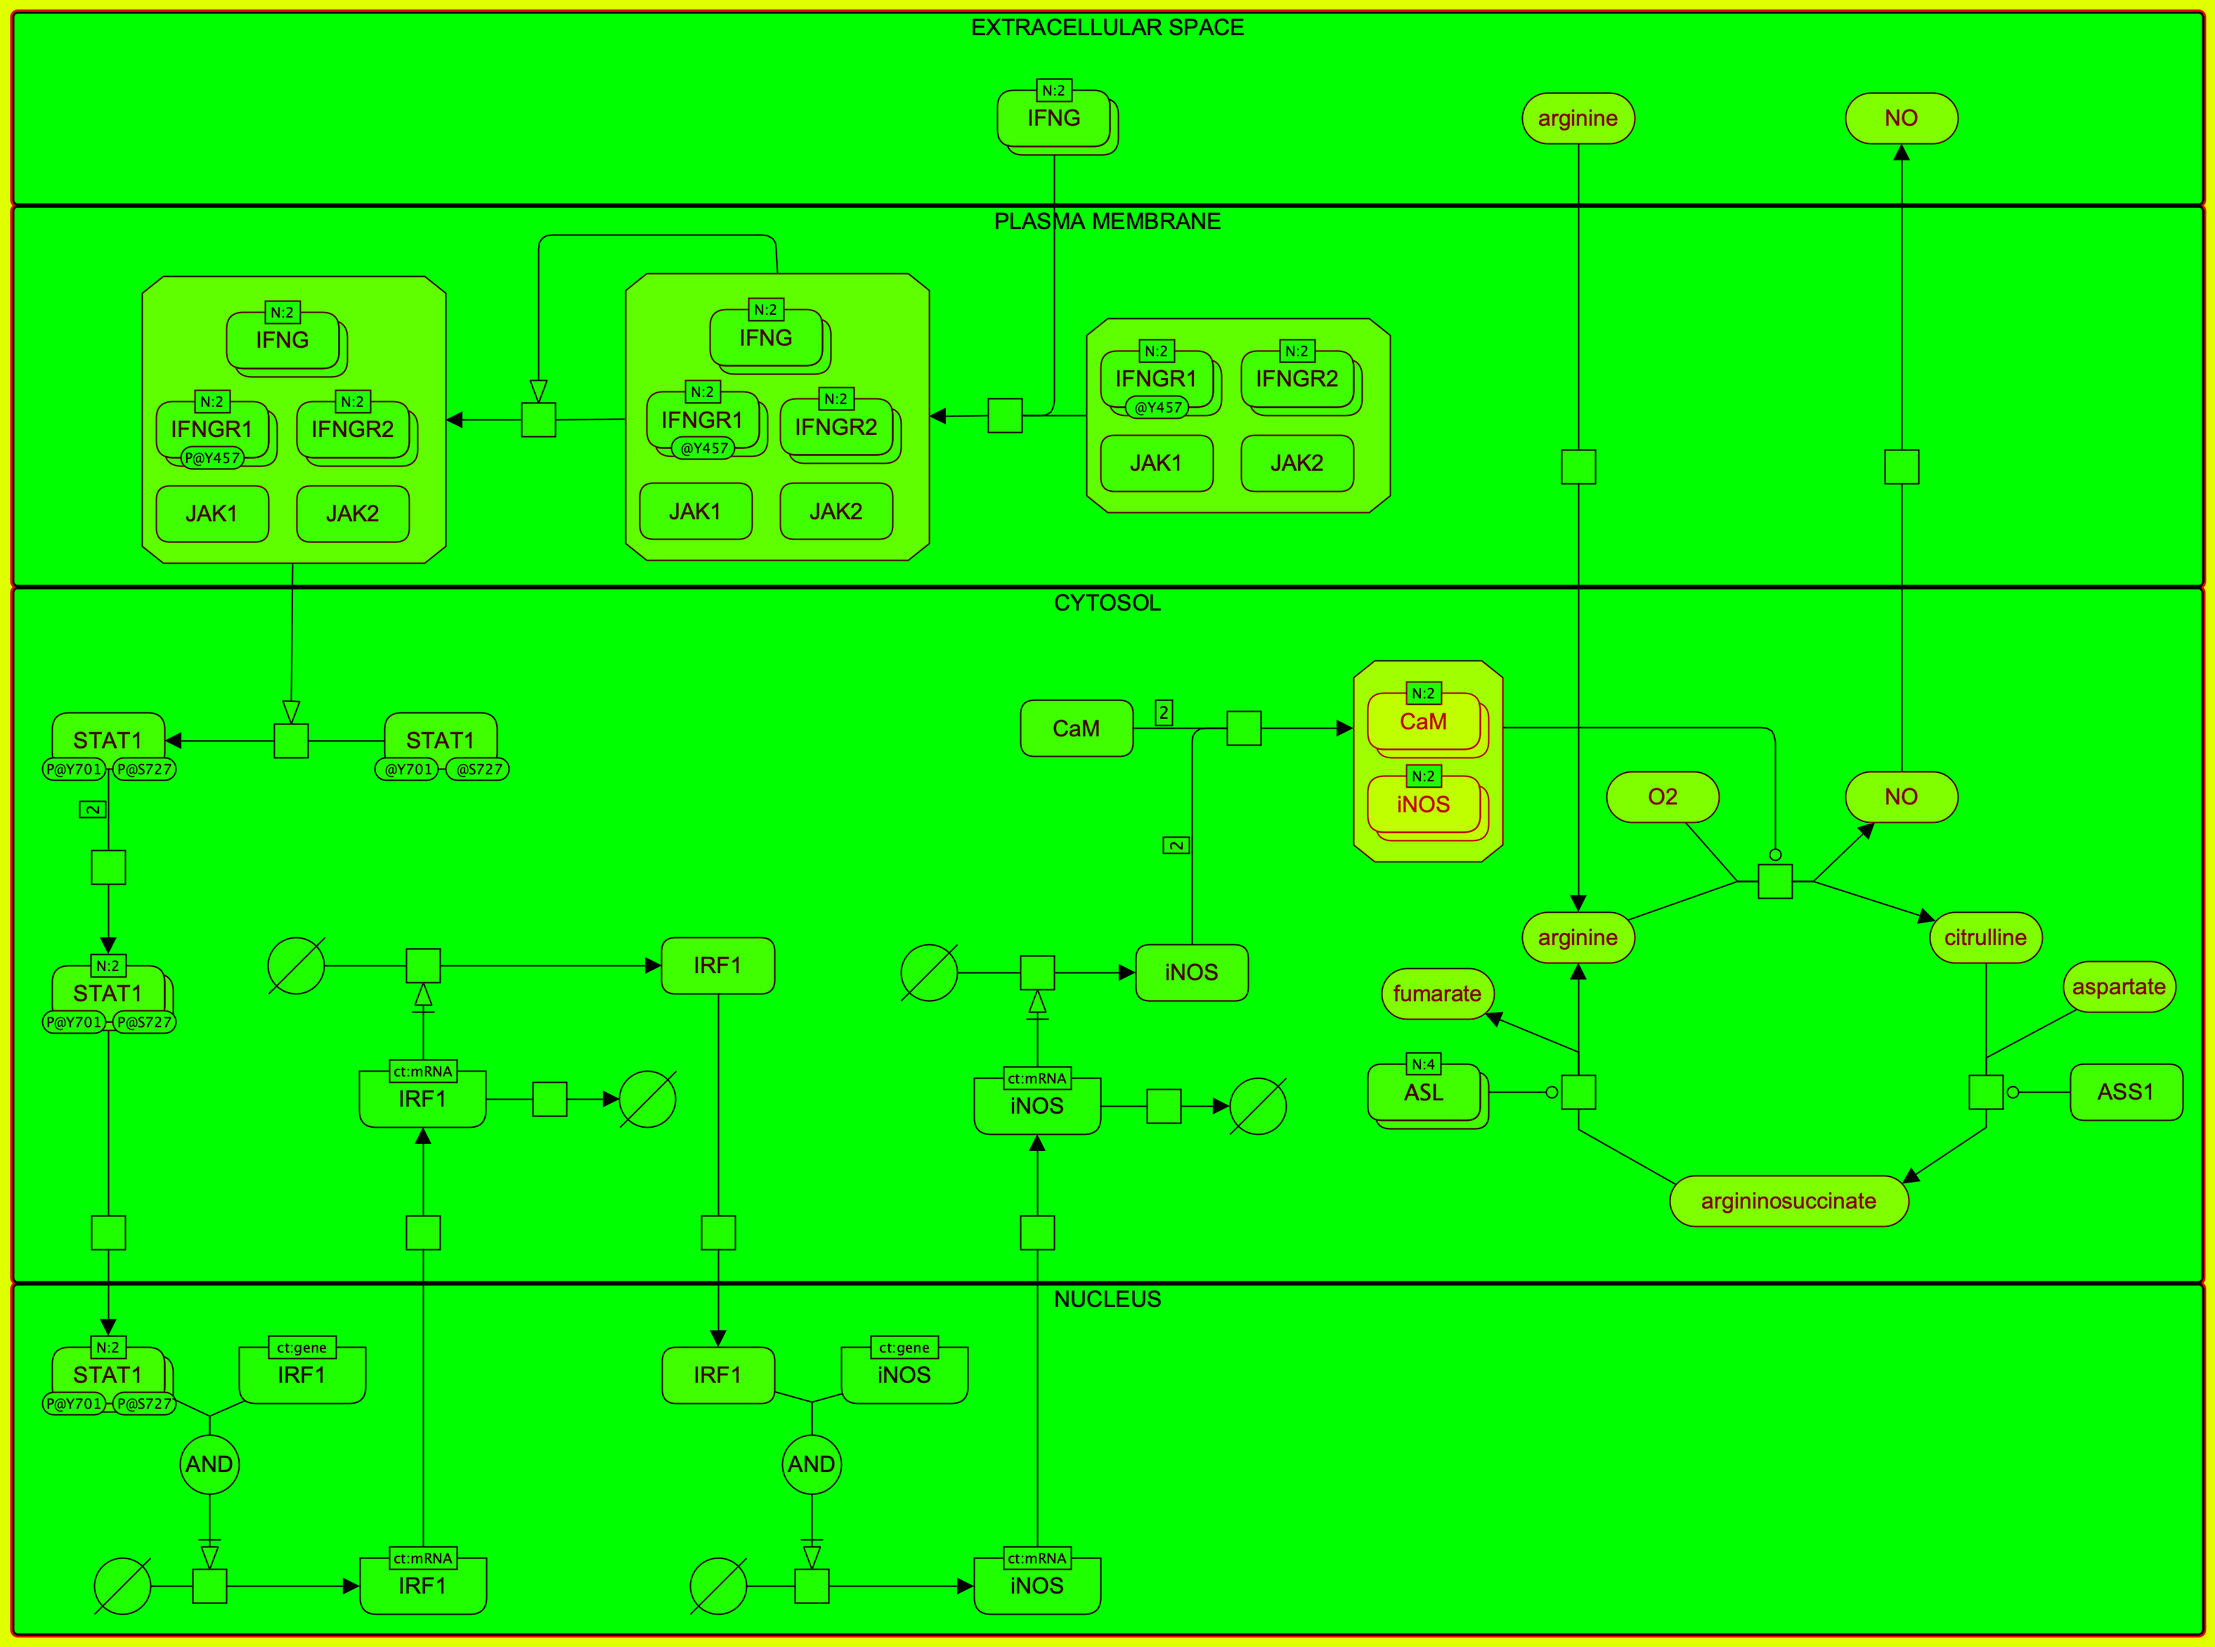
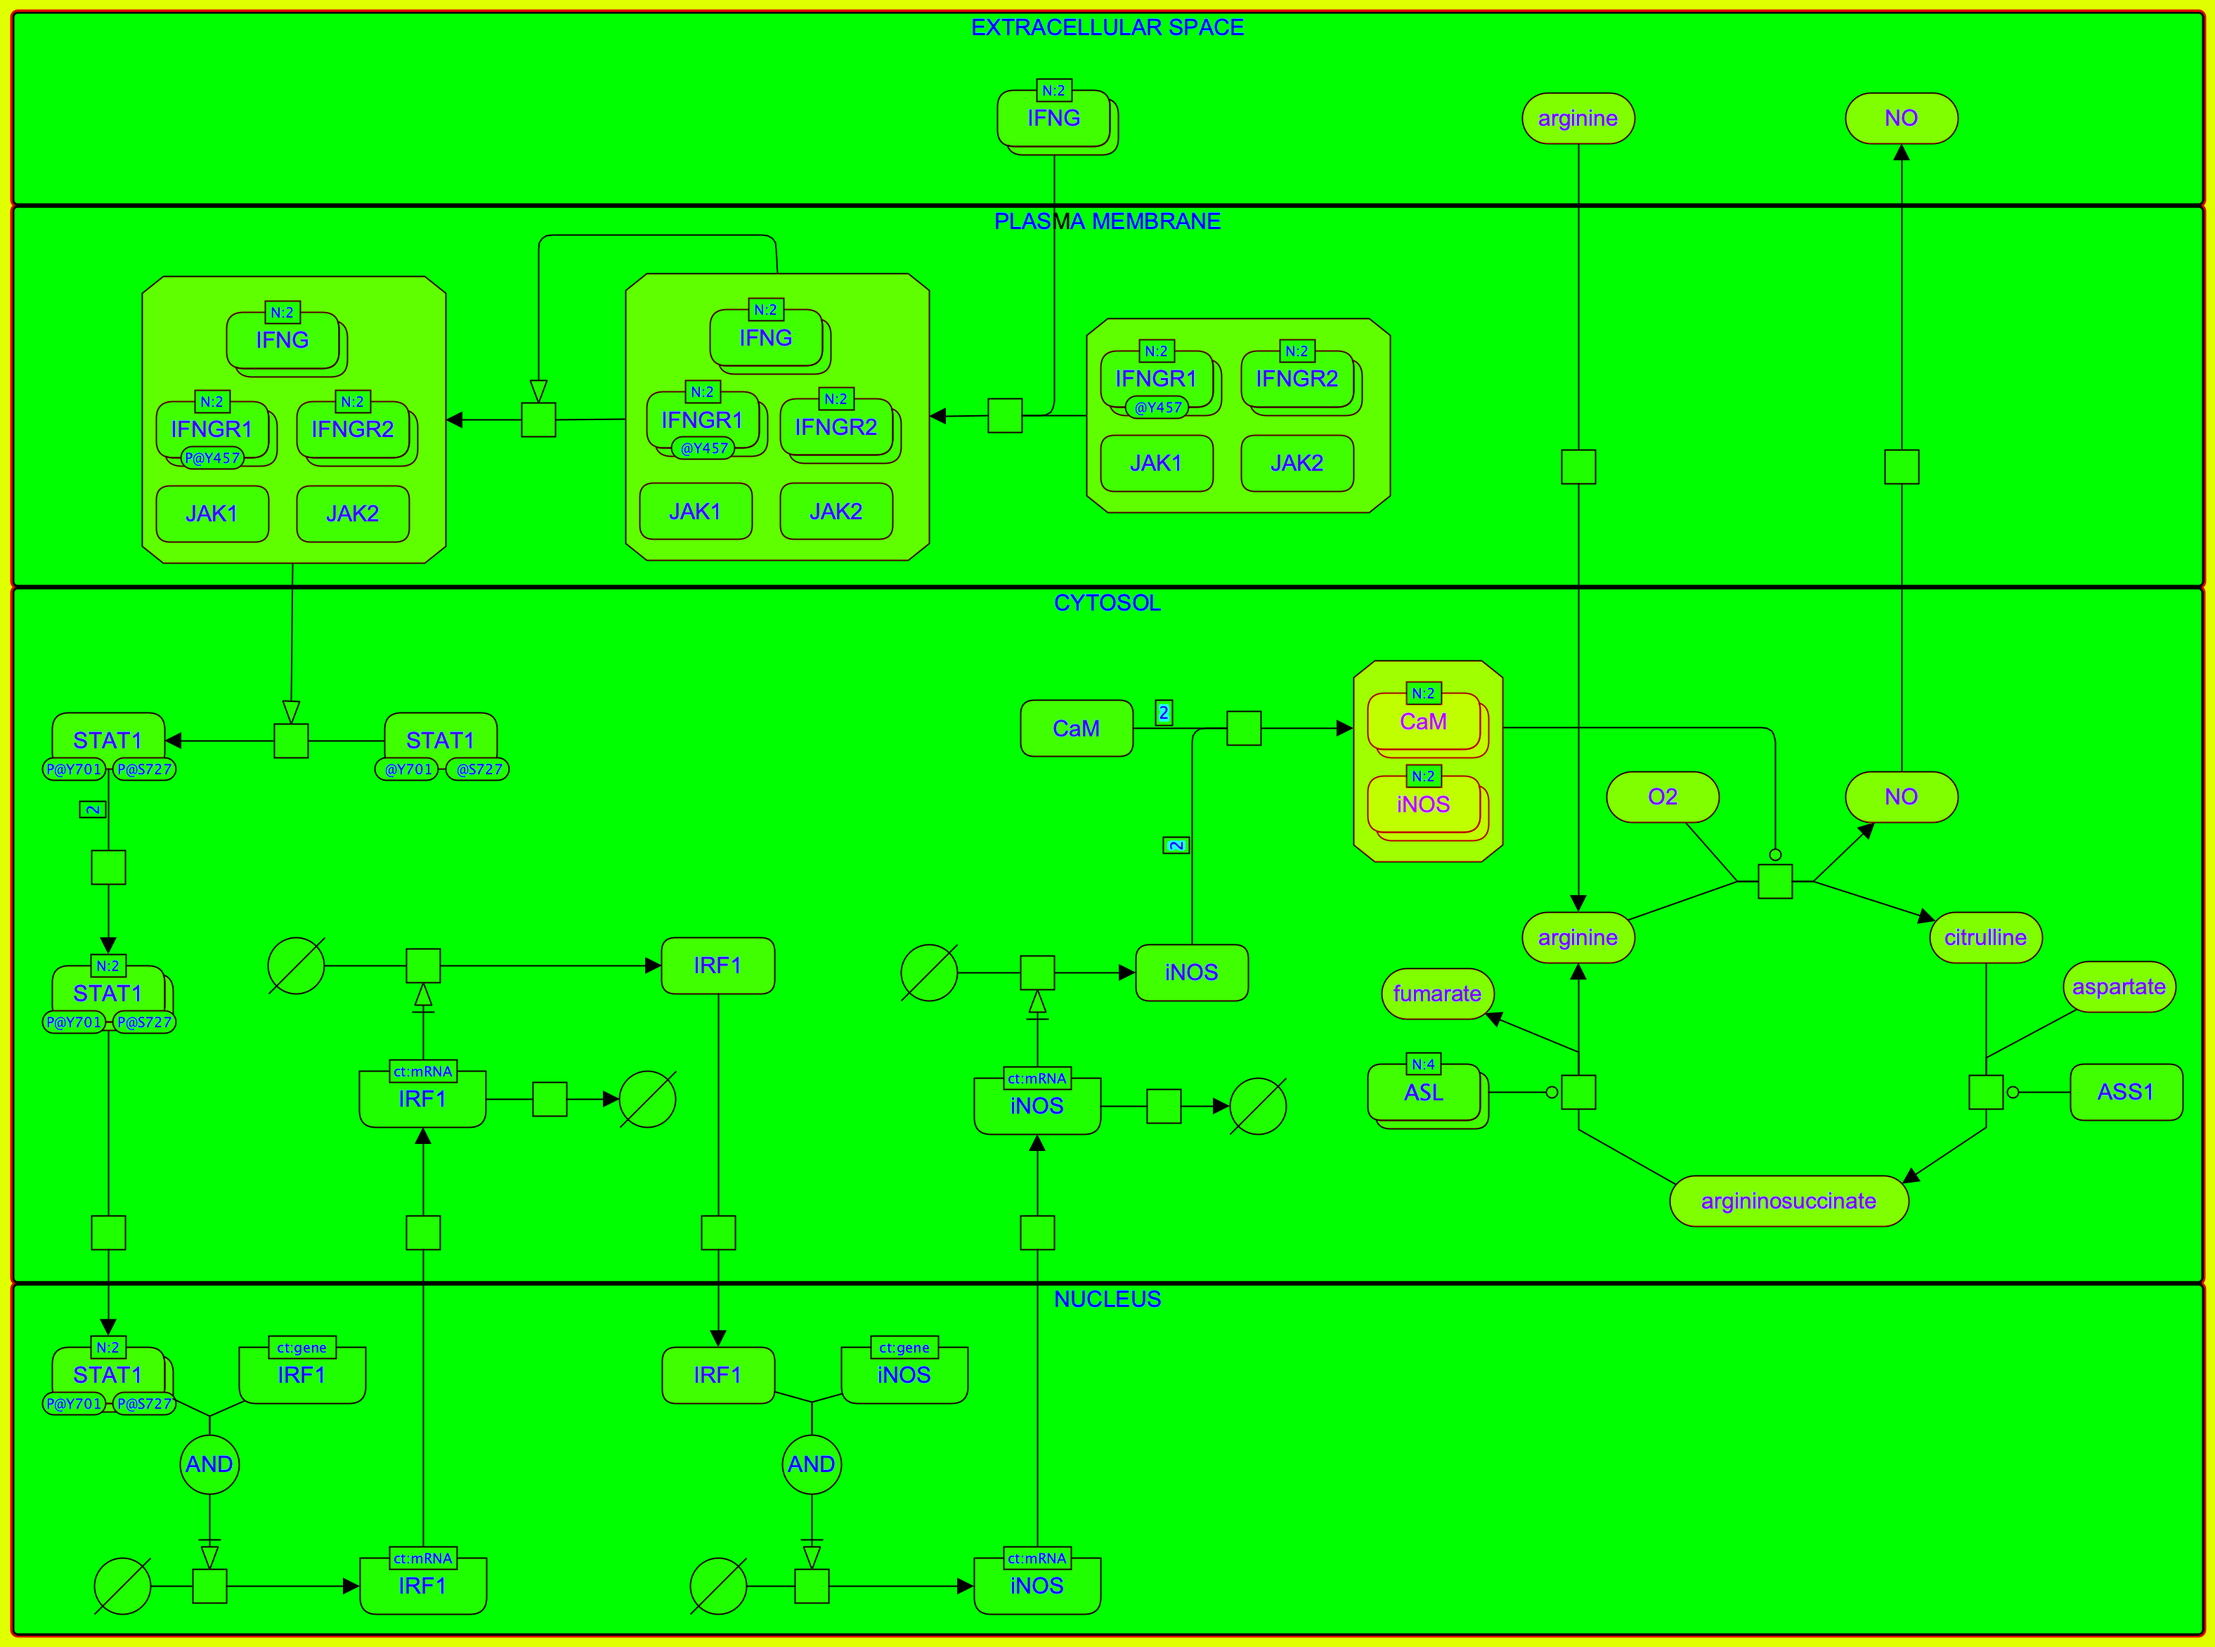
Colours page: separate Lines and Text roles
The layers PNG gains a text flag in its blue channel (glyph-sized ink
components, found by make_layers.py). Theme codes stay 7 colours when text
matches lines and gain an 8th text colour otherwise; presets are unchanged.

Claude-Session: https://claude.ai/code/session_01HHg1EnFmM6xnA6uKGDuSnG

diff --git a/images/colours2/colours2.js b/images/colours2/colours2.js
@@ -1,7 +1,9 @@
 // Colour theme playground for the iNOS map.
 // F007-inos-layers.png stores, per pixel of F007-inos.png:
 //   R = fill class * 32, G = fill share t (0..255); the rest is ink.
-// A pixel is redrawn as t * fill[class] + (1 - t) * ink.
+//   B = 255 where that ink is text, 0 where it is a line or border.
+// A pixel is redrawn as t * fill[class] + (1 - t) * ink, ink being the
+// text or the line colour.
 (function () {
   'use strict';
 
@@ -12,7 +14,8 @@
     { id: 'metabolite', name: 'Simple chemical', cls: 4, L: 0.91, C: 0.05 },
     { id: 'hlProtein', name: 'Highlighted protein', cls: 6, L: 0.80, C: 0.08, hl: true },
     { id: 'white', name: 'Process, gene, mRNA, labels', cls: 1, L: 1, C: 0 },
-    { id: 'ink', name: 'Lines and text', cls: -1, L: 0.2, C: 0.01 }
+    { id: 'ink', name: 'Lines', cls: -1, L: 0.2, C: 0.01 },
+    { id: 'text', name: 'Text', cls: -1, L: 0.2, C: 0.01 }
   ];
 
   var PRESETS = window.C2_PRESETS;
@@ -128,15 +131,16 @@
         }
       }
       var cw = x1 - x0 + 1, ch = y1 - y0 + 1;
-      var cls = new Uint8Array(cw * ch), t = new Uint8Array(cw * ch);
+      var cls = new Uint8Array(cw * ch), t = new Uint8Array(cw * ch), txt = new Uint8Array(cw * ch);
       for (y = 0; y < ch; y++) {
         for (x = 0; x < cw; x++) {
           k = ((y + y0) * w + x + x0) * 4;
           cls[y * cw + x] = Math.round(d[k] / 32);
           t[y * cw + x] = d[k + 1];
+          txt[y * cw + x] = d[k + 2] > 127 ? 1 : 0;
         }
       }
-      layers = { w: cw, h: ch, cls: cls, t: t };
+      layers = { w: cw, h: ch, cls: cls, t: t, txt: txt };
       canvas.width = cw; canvas.height = ch;
       out = ctx.createImageData(cw, ch);
       done();
@@ -157,10 +161,10 @@
     // "Complex as background": complexes take the compartment colour
     if (document.getElementById('c2-cxbg').checked) fills[3] = fills[0];
     fills[5] = fills[3];
-    var ink = simulate(hexToRgb(theme.ink), mode);
-    var d = out.data, cls = layers.cls, t = layers.t, n = layers.w * layers.h;
+    var line = simulate(hexToRgb(theme.ink), mode), text = simulate(hexToRgb(theme.text), mode);
+    var d = out.data, cls = layers.cls, t = layers.t, txt = layers.txt, n = layers.w * layers.h;
     for (var i = 0, j = 0; i < n; i++, j += 4) {
-      var a = t[i] / 255, b = 1 - a;
+      var a = t[i] / 255, b = 1 - a, ink = txt[i] ? text : line;
       if (cls[i] === 7) {
         // margin left at the rounded outer corners: transparent, keeping the ink edge
         d[j] = ink[0]; d[j + 1] = ink[1]; d[j + 2] = ink[2];
@@ -358,8 +362,8 @@
       var hx = document.getElementById('c2-hex-' + r.id);
       if (document.activeElement !== hx) hx.value = theme[r.id];
       var cr = document.getElementById('c2-cr-' + r.id);
-      if (r.id === 'ink') { cr.textContent = ''; return; }
-      var v = contrast(theme[r.id], theme.ink);
+      if (r.cls < 0) { cr.textContent = ''; return; }
+      var v = contrast(theme[r.id], theme.text);
       cr.textContent = v.toFixed(1) + ':1';
       cr.className = 'c2-cr' + (v < 7 ? ' c2-low' : '');
       cr.title = 'Contrast of text on this fill (WCAG). Below 7:1 reads poorly at small sizes.';
@@ -372,24 +376,31 @@
   // Mark the preset that matches the current colours, if any
   function syncPresets() {
     if (!theme.ink) return; // before the first theme is applied
-    var cur = ROLES.map(function (r) { return theme[r.id].slice(1).toUpperCase(); }).join(' ');
+    var cur = themeCode(false);
     Array.prototype.forEach.call(document.querySelectorAll('.c2-preset'), function (b) {
       b.classList.toggle('c2-on', b.getAttribute('data-theme') === cur);
     });
   }
 
+  // Theme code: 7 colours, or 8 when text differs from lines. A 7-colour
+  // code (all presets) draws text in the line colour.
   function applyPreset(str) {
     var hs = str.split(/\s+/);
+    if (hs.length < 8) hs[7] = hs[6];
     ROLES.forEach(function (r, i) { theme[r.id] = '#' + hs[i]; });
     syncControls();
     render();
   }
 
+  function themeCode(cxbg) {
+    var hs = ROLES.map(function (r) {
+      return (cxbg && r.id === 'complex' ? theme.compartment : theme[r.id]).slice(1).toUpperCase();
+    });
+    if (hs[7] === hs[6]) hs.pop();
+    return hs.join(' ');
+  }
   function exportText() {
-    var cxbg = document.getElementById('c2-cxbg').checked;
-    return ROLES.map(function (r) {
-      return (cxbg && r.id === 'complex' ? theme.compartment : theme[r.id]).slice(1);
-    }).join(' ');
+    return themeCode(document.getElementById('c2-cxbg').checked);
   }
 
   // Preset order can be rearranged by dragging the handle; the order is kept
@@ -710,6 +721,6 @@
   });
   document.getElementById('c2-apply').addEventListener('click', function () {
     var v = document.getElementById('c2-export').value.trim().replace(/#/g, '');
-    if (/^([0-9a-fA-F]{6}\s+){6}[0-9a-fA-F]{6}$/.test(v)) applyPreset(v);
+    if (/^([0-9a-fA-F]{6}\s+){6,7}[0-9a-fA-F]{6}$/.test(v)) applyPreset(v);
   });
 })();

diff --git a/images/colours2/make_layers.py b/images/colours2/make_layers.py
@@ -1,4 +1,4 @@
-# Decompose a yEd PNG export into (fill class, ink mix) per pixel for /colours2/.
+# Decompose a yEd PNG export into (fill class, ink mix, text flag) per pixel for /colours/.
 # Usage: python3 make_layers.py downloads/F007-inos.png images/colours2/F007-inos-layers.png
 # Fill order must match the cls numbers of ROLES in colours2.js; class 7 is the page margin.
 # Needs: pillow, numpy, scipy.
@@ -26,8 +26,25 @@ lab,_=ndimage.label(cls==1)
 edge=set(np.unique(np.concatenate([lab[0],lab[-1],lab[:,0],lab[:,-1]])))-{0}
 cls[np.isin(lab,list(edge))]=7
 print('max residual',np.sqrt(best.max()), 'p99.9',np.percentile(np.sqrt(best),99.9))
+# text: ink components of glyph size that do not enclose another component
+# (that rules out small boxes such as stoichiometry labels); every other ink
+# pixel, anti-aliasing included, takes the flag of the nearest core ink pixel
+core=(1-T)>0.35
+lab,n=ndimage.label(core,structure=np.ones((3,3)))
+boxes=ndimage.find_objects(lab)
+def encloses(i):
+    y,x=boxes[i]
+    return any(j!=i and b[0].start>y.start and b[0].stop<y.stop and b[1].start>x.start and b[1].stop<x.stop
+               for j,b in enumerate(boxes))
+glyph=np.zeros(n+1,bool)
+for i,(y,x) in enumerate(boxes):
+    h,w=y.stop-y.start,x.stop-x.start
+    glyph[i+1]=h<=30 and w<=80 and not encloses(i)
+_,(iy,ix)=ndimage.distance_transform_edt(~core,return_indices=True)
+text=glyph[lab[iy,ix]]&(T<1)
+print('text components',glyph.sum(),'of',n)
 out=np.zeros(a.shape[:2]+(3,),np.uint8)
-out[...,0]=cls*32; out[...,1]=np.round(T*255); 
+out[...,0]=cls*32; out[...,1]=np.round(T*255); out[...,2]=text*255
 Image.fromarray(out).save(sys.argv[2],optimize=True)
 # reconstruction check
 F2=np.vstack([F,[[255,255,255]]])

diff --git a/pages/colours.md b/pages/colours.md
@@ -107,7 +107,7 @@ Mode: <select id="c2-mode"><option value="avg" selected>average</option><option 
 <h3>Roles</h3>
 <p class="c2-small" style="margin:0 0 6px"><label><input type="checkbox" id="c2-hl" autocomplete="off"> Highlighted protein</label> &nbsp; <label><input type="checkbox" id="c2-cxbg" autocomplete="off"> Complex transparent</label></p>
 <div id="c2-roles"></div>
-<p class="c2-small">Number on the right: contrast of text on that fill against the ink colour. Red means below 7:1.</p>
+<p class="c2-small">Number on the right: contrast of the text colour on that fill. Red means below 7:1.</p>
 </section>
 
 </div>
